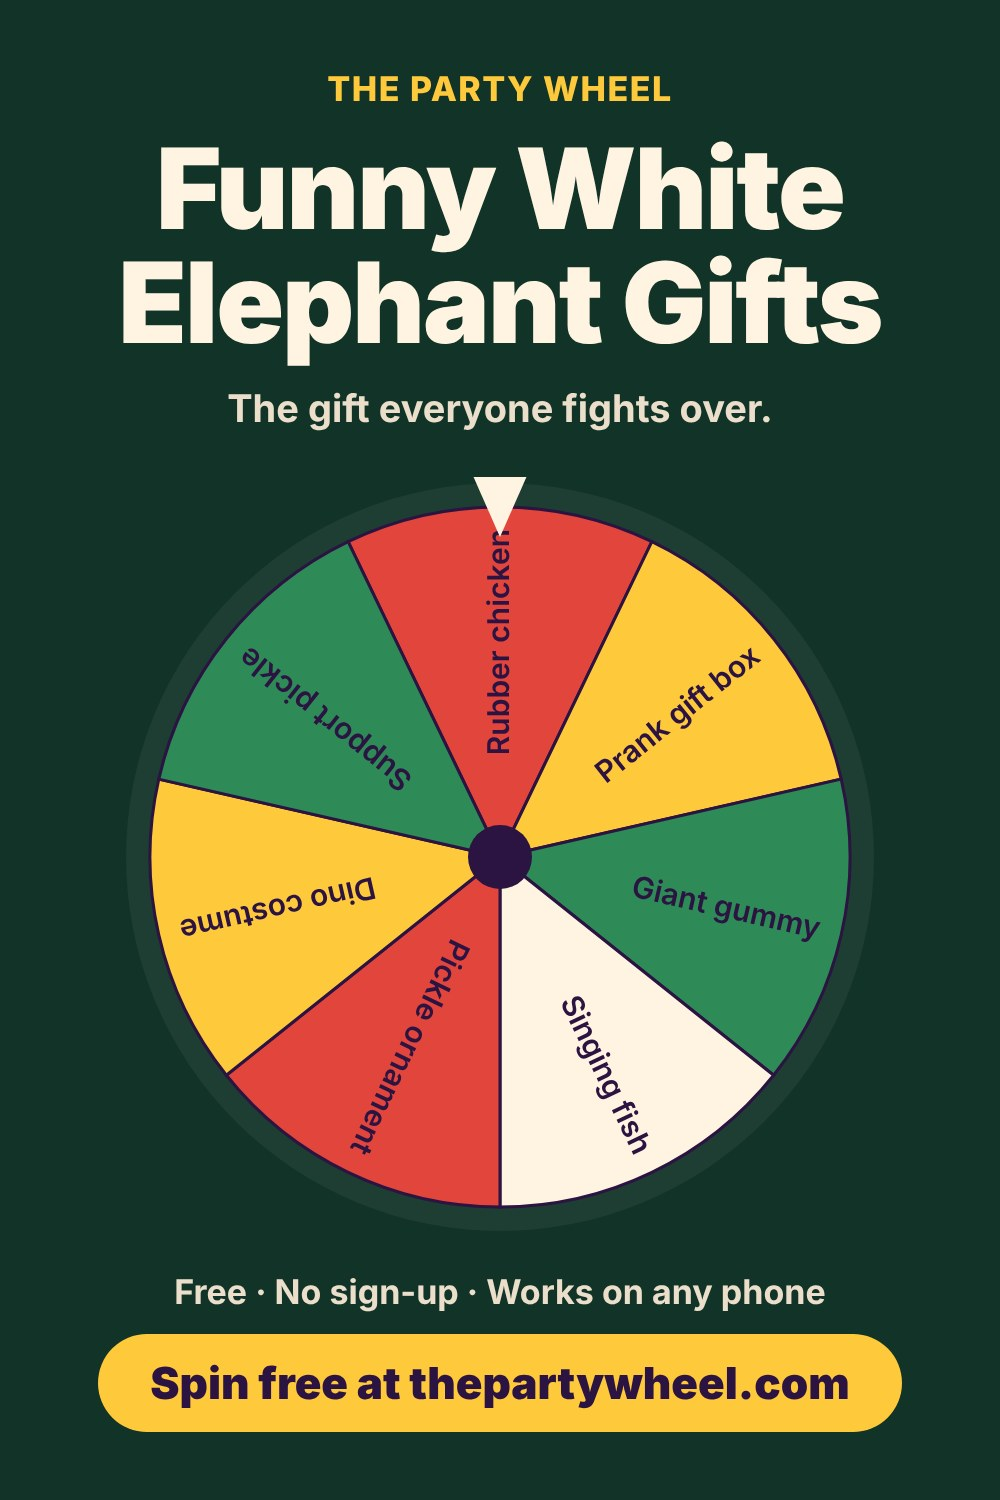
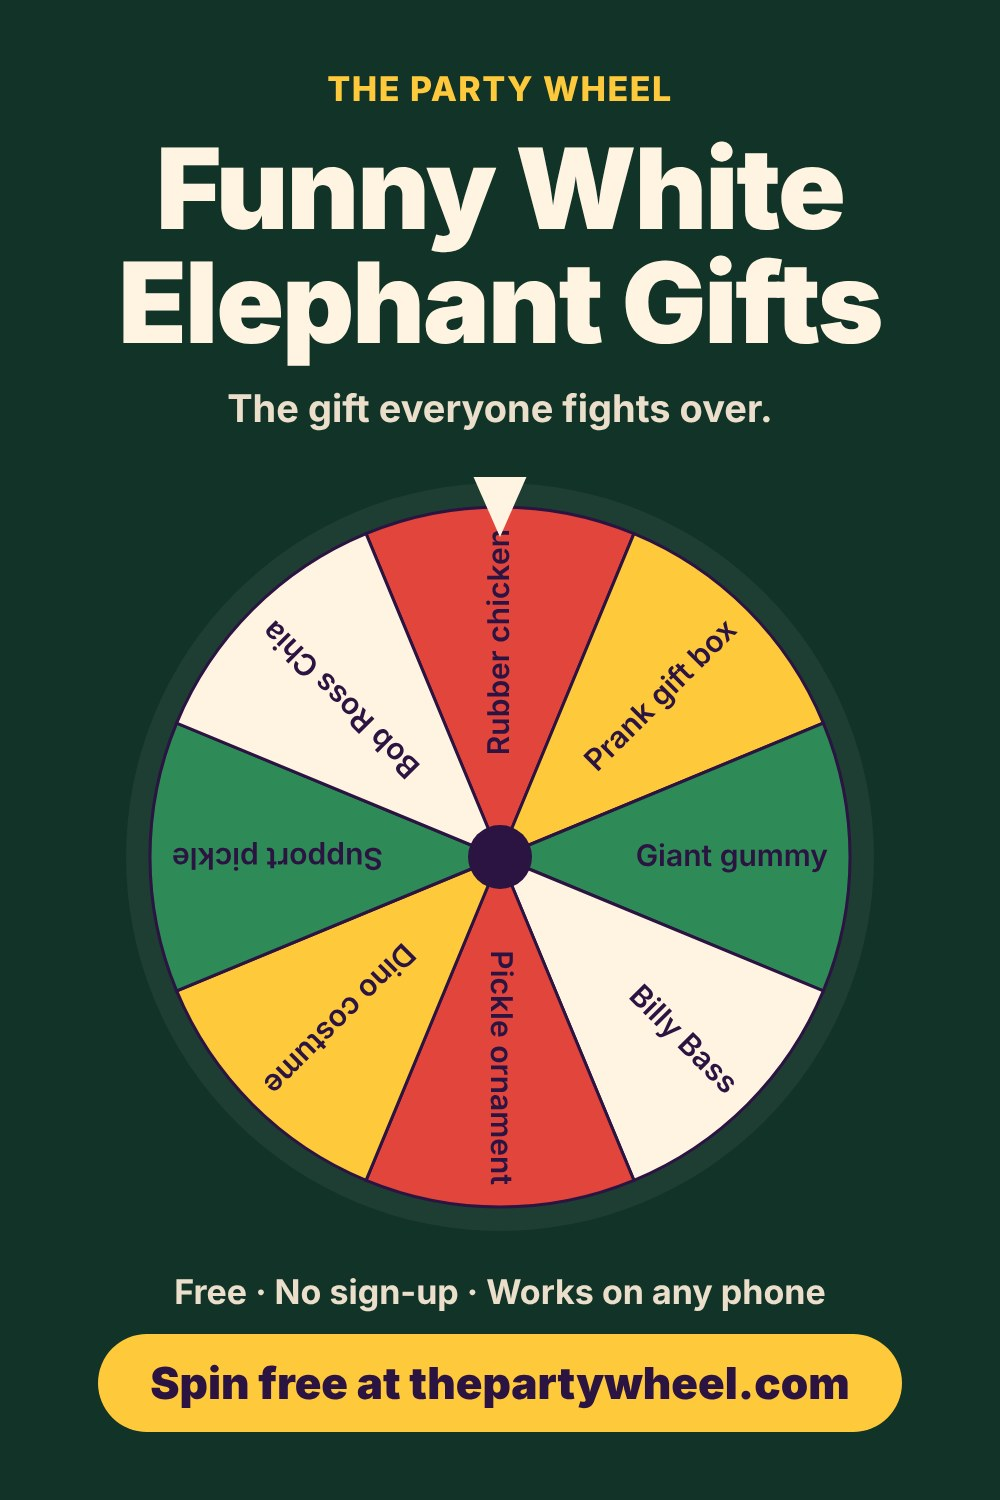
Pin batch 3: 3 new holiday pins, one-a-day feed pacing, label fixes
- New pins: food & drink white elephant, holiday game night 8-12, Christmas rom-coms
- Fix wheel labels on 3 queued pins to match page data; re-render
- Re-date all 9 pins one per day, 10/27-11/04
- build-pin-feeds.mjs: add at most one pin per feed per day using the
  committed feed as state; validate existing items; PIN_TODAY test override
- Log decision, experiments, trends, security review

Claude-Session: https://claude.ai/code/session_01KyMRG9RwgCWN8TW2s2fV7b

Changed region(s): [[0.124, 0.3373, 0.837, 0.828], [0.558, 0.3373, 0.651, 0.4907]]

diff --git a/docs/security/audit-log.md b/docs/security/audit-log.md
@@ -247,3 +247,37 @@ Scope: `pins/queue.json` (branch `pinterest-rss-test`, PR #1, unmerged), new ima
 - **Builder dry run (traced by hand, not run):** today (10/19 Central), no pin is dated on or before today, so the build has zero items, and `lastBuildDate` falls back to 10/12. That is byte-for-byte the current `pins/feeds/holiday.xml`, so the expected output is "No feed changes." Mark or the coordinator should still run it once to confirm.
 - **No new third parties, accounts, tokens, or automation:** the workflow is unchanged in scope (built-in token, contents write, 5-minute timeout, commits only `pins/feeds`). No Pinterest API, tag, or app. The `PRESETS` allow-list now also names the party game keys (`occasion`, `players`, `types`) and others the pages use. That's still a closed list of first-party preset names.
 - **Process:** the experiment row has a $0 cost, a stop rule, and a 2-week window, all set before the test starts. The test hasn't started (PR unmerged, feed never built with items, nothing published). Merging PR #1 is Mark's publish approval under the 10/12 condition.
+
+## 2026-10-26 — Review: Pinterest pin batch 3 + one-pin-a-day feed builder
+Scope: branch `pins-batch-2026-10-26` (uncommitted, builds on unmerged PR #2). `pins/queue.json` (3 new pins: food-drink-white-elephant, holiday-game-night-8-12, christmas-rom-coms; wheel labels changed on white-elephant-under-10, funny-white-elephant, family-christmas-movies; all 9 re-dated 10/27–11/04), the 3 new and 3 re-rendered images (viewed), `scripts/build-pin-feeds.mjs`, `pins/feeds/holiday.xml`, `.github/workflows/pin-feeds.yml`, `scripts/pins/render.py`. Pin copy was checked against `white-elephant-gift-ideas/` (gifts.js, index.html), `christmas-movie-picker/` (movies.js, index.html), `party-game-picker/` (games.js, index.html), and `assets/links.js`.
+**Limit of this review:** I had no shell again, so I didn't run `git diff` or the builder. I read the working-tree files and traced the script by hand.
+
+**Verdict: OK with conditions.** Fix one wording issue before merge (holiday game night pin). The 10/19 High item, Pinterest 2FA, is still open and still blocks connecting the feed. The builder change is sound: no new permissions, no third parties, and no way to inject content from outside the repo.
+
+**High (carried over, blocks connecting the feed, not this merge)**
+- **Pinterest two-factor login still isn't confirmed.** `third-parties.md` still says "not yet confirmed", and no entry since 10/19 records it. Fix: unchanged from 10/19. Mark confirms authenticator-app 2FA, saved backup codes, and no connected apps. Security records it here.
+
+**Low (fix before merge, because the feed can't edit a pin after it's posted)**
+- **"17 holiday party games that work for 8 to 12 players" overstates the fit for the games it names.** The count is right: 17 holiday games pass the page's 8–12 filter. But the filter only needs the game's range to overlap 8–12. Codenames (4–8), Telestrations (4–8), and Jenga (2–8) top out at 8 in our own data, and the page shows "4–8 players" when they land. Two of them are named in the description as working for 8 to 12. Fix: change the description sentence to "Spin a free wheel of 17 holiday party games for groups of 8 to 12, mixing no-supply games like Charades and Holiday Trivia with card games like Wavelength, Herd Mentality, and Monikers, plus a White Elephant gift swap." Optional: swap Codenames, Telestrations, and Jenga on the image for Fishbowl, Pass the Parcel, and White Elephant (re-render), or keep them, since they really are on that wheel.
+- **"Each spin shows quick rules and a how-to-play video" (same pin).** Every game shows its one-line rules plus a "Watch how to play" link to a YouTube search, not a video. Fix: "Each spin shows quick rules and a link to how-to-play videos."
+
+**Low (builder hardening, before the feed has many items)**
+- **The builder copies `pubDate` from the old feed without checking it.** The regex captures any text up to `<`, so a hand-edited or damaged date containing `&` would be written back unescaped and break the whole feed. A bad date also makes the sort unreliable (`NaN`). Only someone who can already push to the repo could cause this, so it's a breakage risk, not an attack. Fix: keep a date only if `!isNaN(Date.parse(date))`, re-write it as `new Date(date).toUTCString()`, and otherwise throw.
+- **State can be lost silently, which would mean a double post.** If the feed's item layout ever changes, or the file is hand-edited, the regex stops matching and already-posted pins are treated as new. Pinterest may then post them again. Removing a posted pin from `queue.json` also drops it from the "posted earlier" comment, so adding it back later would post it again. Fix: count `<item>` in the old feed and throw if it doesn't equal the number of matched items. Note in `_about` that ids of posted pins must never be reused.
+- **A local `PIN_TODAY` test writes the real feed file.** A test run leaves a changed `pins/feeds/holiday.xml` that could be committed with the branch and publish a pin with a test date. It can't be set in the Action: the workflow has no `env:` and no dispatch inputs, and GitHub doesn't export repo variables on its own. Fix: when `PIN_TODAY` is set, print the XML to the console and don't write the file (or exit if `GITHUB_ACTIONS` is set).
+- **New items are dated about 5 hours into the future.** `noon()` uses 12:00 at UTC−6 (18:00 UTC), and the workflow commits at about 12:52 UTC. Some feed readers hold back future-dated items. Fix: use `T06:00:00-06:00` (12:00 UTC, before the run), or check that the first RSS pin appears the same day.
+
+**Low (paperwork / carried over)**
+- No decision entry yet for batch 3, the one-a-day builder, or the move to 10/27–11/04 dates. The `experiments.md` RSS row still lists 6 pins and 10/20–10/25 dates. Fix: the coordinator logs it once Mark approves, and marketing updates the row (9 pins, new dates; the success rule "all appear within ~1 day of their date" now means "one per day, in order").
+- Carried over: Toilet golf is still in `?vibes=funny` (marketing's call). Holiday Inn is still on `?moods=classic`. The affiliate line is still needed on gift, movie, and game pins once the Amazon tag goes live (the tag is empty today).
+- Optional, office crowd: the food pin names a cocktail smoker kit. That's fine for most offices. Marketing's call for no-alcohol workplaces.
+
+**Passed**
+- **Food & drink** (`?vibes=food`): the food pool is exactly the 8 wheel labels (Hot cocoa, BeanBoozled at u10; Waffle maker, Hot sauce set, Popcorn tin at u25; Charcuterie set, Drink smoker, Hot sauce kit at u50). So "from under $10 to $50" is true, all 7 named ideas are food entries, and the page shows "All 8 matching ideas". "Prices vary" and "links to shop it" match the page.
+- **Christmas rom-coms** (`?moods=romance`): `romance` is a real mood, and the pool is exactly 13, so "13 holiday love stories" is true. The page shows 12 at a time, with "Deal new ideas" for the 13th. All 5 named films and all 8 wheel labels are romance entries, and the labels match the data's short labels ("Princess Switch", "Falling for Xmas"). The Princess Switch and Falling for Christmas are Netflix films. "Summary plus where to stream, rent, or buy" matches the summary line, JustWatch, and Amazon "Rent or buy".
+- **Holiday game night** (`?occasion=holiday&players=8-12`): both values are real select options. I counted the pool by hand: 19 holiday games, minus Just One and Ticket to Ride, leaves 17. All named games and all 8 wheel labels are in it. "Card, board, and no-supply" is true (Jenga is board).
+- **Label fixes:** under $10 (all 8 are u10), funny (all 8 are `funny`; 9 in the pool, including Toilet golf), and family (all 8 are family or animated). Every label now matches the page's short label exactly. The brand names that are now shown (BeanBoozled, Pocket UNO, Billy Bass) are plain-text references to real products, which is fine. Unchanged pins ($25, office games, classics) re-checked: still true.
+- **Links:** all 9 are `https://thepartywheel.com/...` and use only their page's own preset keys. No `#`, no tracking tags, no shorteners, no `user@`. The builder enforces this.
+- **Images** (6 viewed): text plus a drawn wheel only. Labels match the queue. Nothing to worry about for an office or a family. Accents are valid `#RRGGBB`. render.py validates accents and escapes `<`.
+- **Builder:** ids must be lowercase words joined by single dashes, so an id can't contain `--` or end a comment. The "posted earlier" comment only ever holds ids that are in the queue. Ids, dates, and text from the old feed are matched against the queue, so nothing from the old feed text is copied except the `pubDate` noted above. It's idempotent: a second run on the same day finds today's date already used and changes nothing. Traced for today (10/26): no pin is due, and the output is byte-for-byte the committed empty feed. On 10/27 it adds only white-elephant-25-limit. A late merge now posts one a day, so the 10/19 "re-date if it slips" condition is no longer needed. The `PIN_TODAY` value is format-checked, and impossible dates are rejected.
+- **No new permissions or third parties:** the workflow is unchanged (built-in token, contents: write, 5-minute timeout, commits only `pins/feeds`). No Pinterest API, token, tag, or app.

diff --git a/docs/marketing/experiments.md b/docs/marketing/experiments.md
@@ -5,8 +5,8 @@
 | 2026-10-09 | Paid search ads can profitably capture traffic from big wheel sites | $0 (desk check only) | — | — | **Rejected before spending.** Cost per visitor is about 100x earnings per visitor (see finance review) | Use free channels until there's a page with proven buyer intent |
 | 2026-10-10 (planned) | Free outreach brings real visitors and shows which picker people want | $0, ~4 hrs of Mark's time | 2–4 weeks | Stop on any platform after a mod warning/removal; drop a channel under 100 visits (or <5 affiliate clicks once live) after 2 weeks | — | Order: Pinterest pins (holiday karaoke + party games) → r/SideProject "I built this" → book club / game night communities after Bookshop approval |
 | 2026-10-10 (planned) | Freshness-first titles/snippets earn clicks | $0 | ~4 weeks after re-indexing | If CTR < ~2% at avg position ≤ 10, test exact counts in titles | — | Compare per page in Search Console |
-| 2026-10-10 (started) | Pinterest pins bring visitors to the holiday pickers | $0 | Through Dec | Same as outreach row; check Pinterest analytics + Search Console referrals at the 10/23 review | Pins 1–2 posted 10/10 (Christmas karaoke, holiday party games). Pins 3–10 (adds Christmas movie + white elephant) scheduled in Pinterest for 10/11–10/14, 2/day at 12:30 + 8:30 PM CT. Profile, About text, and 4 board descriptions done. No analytics dropped as of 10/19; judge at ~10/24–10/28 when pins hit 2 weeks | — |
-| 2026-10-12 (planned; not started as of 10/19) | Pinterest RSS auto-pins look and perform as well as hand-made pins, at no posting time for Mark | $0 | 2 weeks after the first RSS pin appears | Stop and disconnect the feed if a pin shows the wrong image/text/link, Pinterest flags spam, or no pin appears within 3 days of connecting. Success: all 6 pins appear correctly within ~1 day of their date, and 7-day saves + outbound clicks are within range of the hand-made holiday pins | Not started: PR #1 unmerged, so the feed workflow has never run. 10/19: re-dated to one pin a day (family movies 10/20, WE under $10 10/21, classic movies 10/22, funny WE 10/23, office party games 10/24, WE $25 limit 10/25) so they don't all post the same morning; 3 pins added (classic-christmas-movies, office-party-games, white-elephant-25-limit; images rendered) | Then add feeds for the other boards |
+| 2026-10-10 (started) | Pinterest pins bring visitors to the holiday pickers | $0 | Through Dec | Same as outreach row; check Pinterest analytics + Search Console referrals at the 10/23 review | Pins 1–2 posted 10/10 (Christmas karaoke, holiday party games). Pins 3–10 (adds Christmas movie + white elephant) scheduled in Pinterest for 10/11–10/14, 2/day at 12:30 + 8:30 PM CT. Profile, About text, and 4 board descriptions done. No analytics dropped as of 10/26 (pins now 2 weeks old, ready to judge once Mark drops a Pinterest export) | — |
+| 2026-10-12 (planned; not started as of 10/26) | Pinterest RSS auto-pins look and perform as well as hand-made pins, at no posting time for Mark | $0 | 2 weeks after the first RSS pin appears | Stop and disconnect the feed if a pin shows the wrong image/text/link, Pinterest flags spam, or no pin appears within 3 days of connecting. Success: all pins appear correctly within ~1 day of entering the feed, and 7-day saves + outbound clicks are within range of the hand-made holiday pins | Not started: PRs #1 and #2 unmerged, so the feed workflow has never run. 10/26 (PR #3, supersedes #1/#2): 9 pins, one a day 10/27–11/04 (WE $25 limit, WE under $10, funny WE, food & drink WE*, office party games, holiday game night 8–12*, Christmas rom-coms*, family movies, classic movies; *new). Wheel labels on 3 queued pins fixed to match page data. Builder now adds at most one pin per board per day, so a late merge no longer dumps the backlog | Then add feeds for the other boards |
 
 ## Reddit plan (2026-10-11, marketing)
 - **Now:** r/SideProject (build story, not a bare link). r/InternetIsBeautiful (karaoke picker only; needs 90% non-site account history). r/karaoke (ask mods first).
@@ -24,6 +24,15 @@ trends.pinterest.com could not be fetched (permission request timed out), so the
 - **Pinterest says holiday planning starts early.** Its Holiday 2026 page tells brands to go "early, always-on" but gives no dates or search data. Fit: supports posting holiday pins in October. https://business.pinterest.com/holiday-marketing-2026/
 - **Friendsgiving games.** Several "Friendsgiving games 2026" listicles exist (Peerspace, ClassPop), but there's no volume data. Fit: could be a later preset on the party game picker (needs a new occasion value). Not a priority until Search Console shows demand. https://www.classpop.com/magazine/authors/christine-dayton
 - **White elephant / Christmas movie results are still full of spam or hijacked domains** (e.g., subscribe.adey.com/?p=…, wholesale.andersen-ev.com/?p=…). That matches the 10/10 finding of weak competition. Fit: no change; keep both pages at build-now priority.
+
+## Trends (2026-10-26)
+trends.pinterest.com blocked again. Sources: Pinterest's weekly business-community trend posts (2026 posts so far show only fall/Halloween; the holiday figures below are Pinterest's own numbers from the same weeks of 2025, for timing, not 2026 volume).
+- **Gift searches rise late Nov** ("small gifts" +90%, "portable charger" +130%, 11/21/2025). Fit: white elephant wheel already has these; white elephant pins go first. https://community.pinterest.biz/t/pinterest-predicts-weekly-what-s-inspiring-people-11-21/40684
+- **"Gift exchange games" 2.5x and "friendsmas" 2x in early Dec** (12/5/2025). Fit: game night 8–12 pin now; later, add gift-swap variants (left-right, dice) to the party game holiday list. https://community.pinterest.biz/t/pinterest-predicts-weekly-what-s-inspiring-people-12-5/40987
+- **"Gifts for book lovers" +105% mid-Dec** (12/12/2025). Fit: Book Club board pin with Bookshop links in early Dec. https://community.pinterest.biz/t/pinterest-predicts-weekly-what-s-inspiring-people-12-12/41107
+- **Thanksgiving interest is food/decor, not games** ("hot chocolate station" +100%, 10/31/2025). Fit: supports the food & drink WE pin; Friendsgiving games preset stays "later". https://community.pinterest.biz/t/pinterest-predicts-weekly-what-s-inspiring-people-10-31/40177
+- **Netflix 2026 Christmas slate leans rom-com** (The Christmas Switch 11/12, Guarding Stars 11/18, In a Holidaze 12/2). Fit: rom-com pin now; add titles to the movie wheel after release. https://www.whats-on-netflix.com/coming-soon/netflix-2026-christmas-movie-lineup/
+- **Small gatherings lead hosting** (Evite 2026: holiday parties, watch parties, book clubs; $0–100 budgets). https://www.aol.com/articles/heres-hosting-look-2026-150700154.html
 
 ## Video pin test (2026-10-11)
 - Book club video pin v2: 14s, 9:16, silent, opens on the spinning wheel, captions in Pinterest's safe zone (y≈290–440), genre taps → spin → result links → end card, hard cut to loop. Rendered frame by frame from the live site (v1 screen recording was choppy and 21s).

diff --git a/docs/decisions.md b/docs/decisions.md
@@ -60,3 +60,4 @@
 | 2026-10-18 | NYT Books API for bestseller ISBNs: on hold, not cleared | Finance: $0 and a small upside. Security: free API appears limited to non-commercial use (our Bookshop links are commercial) and requires the NYT API logo on pages showing the data; official terms could not be read to confirm. Weekly bestsellers stay plain search links; the Monday workflow still writes a small candidate CSV (docs/bookshop/weekly-<date>.csv) Mark can upload when he likes. Revisit if traffic shows bestseller clicks matter |
 | 2026-10-18 | Hidden Bookshop link test page (title link, plain search, shop page, search widget loaded on tap) so Mark can check which methods carry our affiliate ID; Mark also asking Bookshop whether widget searches and the never-expiring cookie credit later search purchases | Decide on a bestseller fix with evidence before UX/security build anything; widget stays test-only |
 | 2026-10-19 | Pinterest pin batch 2 (pending Mark's merge): 3 new holiday-feed pins (classic Christmas movies `?moods=classic`, office party games `?occasion=holiday&players=13-99&types=free,paper`, white elephant $25 limit `?price=u25&vibes=cozy,useful,food`) and PR #1's 3 pins re-dated to one per day, 10/20–10/25. Supersedes PR #1 (this branch contains it). render.py now rejects non-#RRGGBB accents and escapes `<` in wheel labels | PR #1's dates had passed, so merging it as-is would post all 3 the same morning. New angles chosen from Nielsen classics data and Pinterest Predicts 2026 nostalgia trend, plus existing target phrases (office Christmas party games, white elephant under $25). Security: OK with conditions (Mark confirms Pinterest authenticator 2FA + no connected apps before connecting the feed; re-date and re-review if the merge slips past 10/20). $0, no finance gate |
+| 2026-10-26 | Pinterest pin batch 3 (pending Mark's merge, PR #3; supersedes #1 and #2): 3 new holiday-feed pins (food & drink white elephant `?vibes=food`, holiday game night 8–12 `?occasion=holiday&players=8-12`, Christmas rom-coms `?moods=romance`); wheel labels fixed on 3 queued pins to match page data; all 9 dated one a day 10/27–11/04, white elephant first. Feed builder now adds at most one pin per board per day (committed feed is the state), so a late merge posts one a day instead of a backlog | PR #2 also went unmerged and its dates passed, the same slip as PR #1. Order from marketing: gift searches rise in November. Security: OK with conditions (game-night copy fixed before PR; builder hardening applied). Pinterest 2FA still unconfirmed (High) and blocks connecting the feed. $0, no finance gate |
